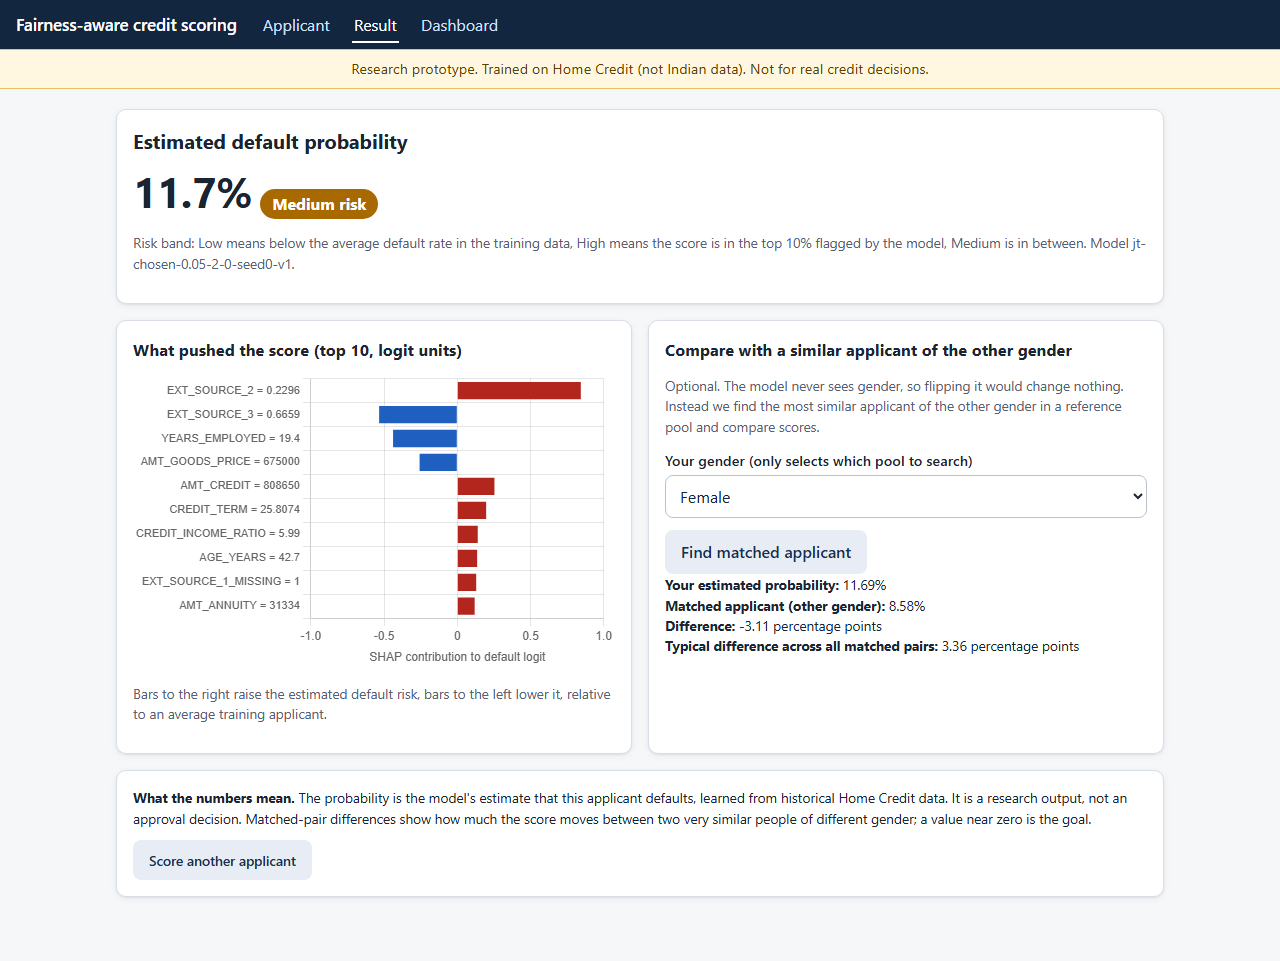
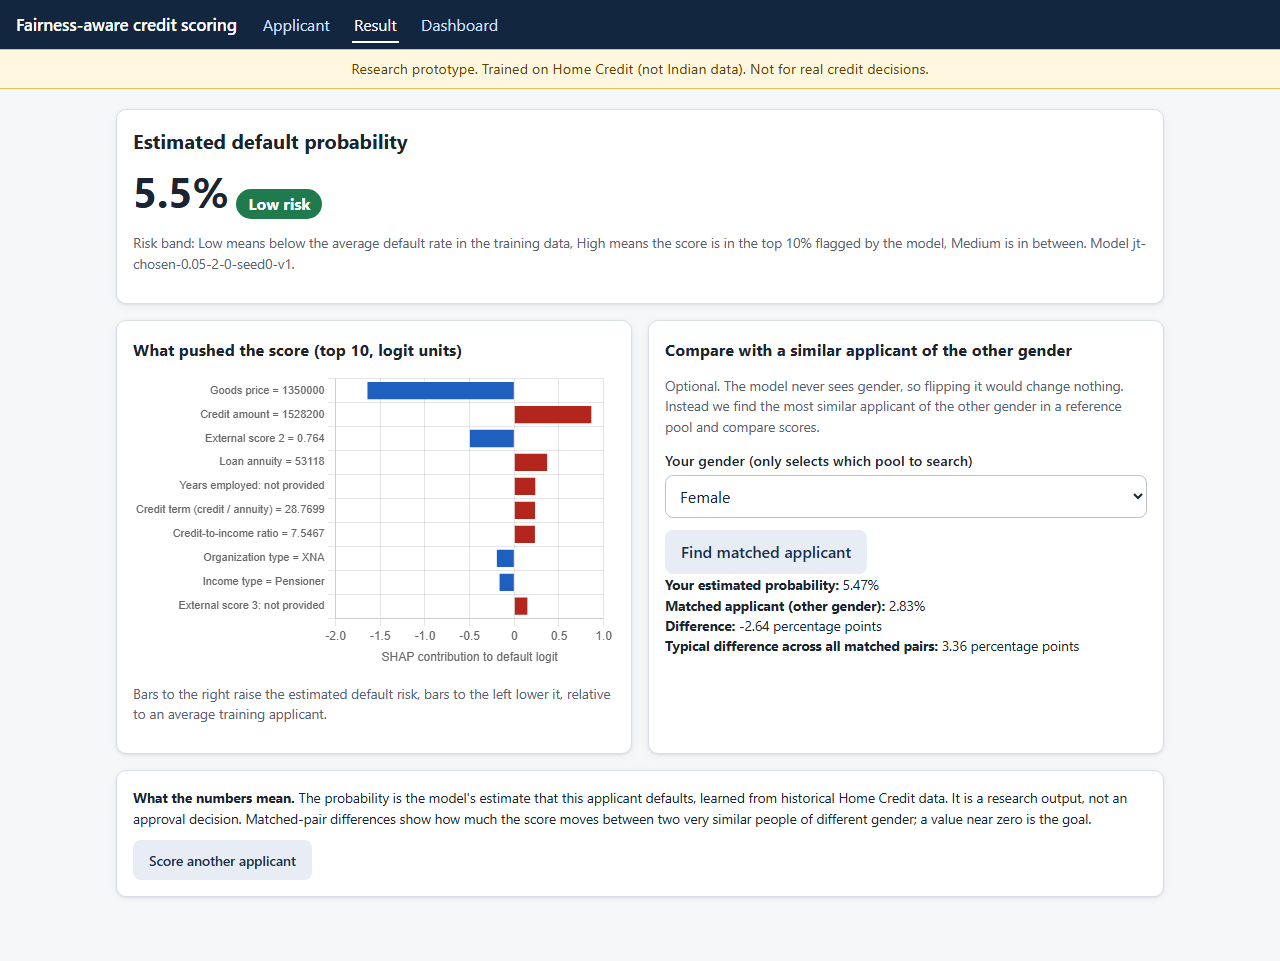
UI polish: open-range labels, friendly SHAP labels with merged missing scores, key-methods table with compact CIs, fresh screenshots

diff --git a/web/js/dashboard.js b/web/js/dashboard.js
@@ -32,20 +32,56 @@
     line(t, p.note);
   }
 
-  function comparison(c) {
-    const tb = document.getElementById("cmp"); tb.replaceChildren();
-    const head = ["Method", "Use", "AUC-ROC", "AUC-PR", "Worst-group ECE", "EOD", "DIR", "Recall"];
+  const CI_KEYS = ["auc_roc", "auc_pr", "worst_group_ece", "eod"];
+  const MAIN_ORDER = ["S2-EG", "REF-EG", "A2"];
+
+  function metricCell(r, k) {
+    const td = document.createElement("td");
+    td.className = "num";
+    const lo = r[k + "_lo"], hi = r[k + "_hi"];
+    if (typeof lo === "number" && typeof hi === "number") {
+      td.textContent = f4(r[k]) + " \u00b1 " + f4((hi - lo) / 2);
+      td.title = "95% interval " + f4(lo) + " to " + f4(hi);
+    } else td.textContent = f4(r[k]);
+    return td;
+  }
+
+  function fillTable(tb, rows, served) {
+    tb.replaceChildren();
     const tr0 = document.createElement("tr");
-    head.forEach((h, i) => { const th = document.createElement("th"); th.textContent = h; if (i > 1) th.className = "num"; tr0.appendChild(th); });
+    ["Method", "Use", "AUC-ROC", "AUC-PR", "Worst-group ECE", "EOD", "DIR", "Recall"].forEach((h, i) => {
+      const th = document.createElement("th"); th.textContent = h; if (i > 1) th.className = "num"; tr0.appendChild(th);
+    });
     tb.appendChild(tr0);
-    const ci = (r, k, d) => f4(r[k]) + (r[k + "_lo"] !== undefined && r[k + "_lo"] !== null ? " [" + f4(r[k + "_lo"]) + ", " + f4(r[k + "_hi"]) + "]" : "");
-    c.rows.forEach((r) => {
+    rows.forEach((r) => {
       const tr = document.createElement("tr");
-      const cells = [r.arm, r.deployable ? "deployable" : "analysis only", ci(r, "auc_roc"), ci(r, "auc_pr"), ci(r, "worst_group_ece"), ci(r, "eod"), f4(r.dir), f4(r.recall)];
-      cells.forEach((v, i) => { const td = document.createElement("td"); td.textContent = v; if (i > 1) td.className = "num"; if (i === 1) td.className = r.deployable ? "dep-yes" : "dep-no"; tr.appendChild(td); });
+      if (r.arm === served) tr.className = "served";
+      const name = document.createElement("td");
+      name.textContent = r.arm + (r.arm === served ? " (served)" : "");
+      const use = document.createElement("td");
+      use.textContent = (r.deployable ? "deployable" : "analysis only") + (r.posthoc ? ", post-hoc" : "");
+      use.className = r.deployable ? "dep-yes" : "dep-no";
+      tr.append(name, use);
+      CI_KEYS.forEach((k) => tr.appendChild(metricCell(r, k)));
+      ["dir", "recall"].forEach((k) => tr.appendChild(metricCell(r, k)));
       tb.appendChild(tr);
     });
+  }
+
+  function comparison(c, extra) {
+    const all = c.rows.concat(extra);
+    const main = [c.served_arm, ...MAIN_ORDER].map((a) => all.find((r) => r.arm === a)).filter(Boolean);
+    fillTable(document.getElementById("cmp_main"), main, c.served_arm);
+    fillTable(document.getElementById("cmp"), all, c.served_arm);
     document.getElementById("honest").textContent = c.headline;
+  }
+
+  async function posthocRows() {
+    // Separate labelled file: the frozen bundle's comparison stays unchanged. The page still works without it.
+    try {
+      const res = await fetch("data/posthoc_arms.json");
+      return res.ok ? (await res.json()).rows : [];
+    } catch (e) { return []; }
   }
 
   let trade = null, chart = null;
@@ -69,9 +105,9 @@
   async function init() {
     showStatus(statusEl, "info", "Loading dashboard data...");
     try {
-      const [f, c, p, cmp, tr] = await Promise.all([API.get("/fairness"), API.get("/calibration"), API.get("/proxy-audit"), API.get("/comparison"), API.get("/tradeoff")]);
+      const [f, c, p, cmp, tr, extra] = await Promise.all([API.get("/fairness"), API.get("/calibration"), API.get("/proxy-audit"), API.get("/comparison"), API.get("/tradeoff"), posthocRows()]);
       showStatus(statusEl, "", "");
-      trade = tr; fairness(f); calibration(c); proxy(p); comparison(cmp);
+      trade = tr; fairness(f); calibration(c); proxy(p); comparison(cmp, extra);
       ["lf", "lc", "la"].forEach((id) => document.getElementById(id).addEventListener("input", slide));
       slide();
     } catch (e) {

diff --git a/web/dashboard.html b/web/dashboard.html
@@ -34,9 +34,13 @@
         <div class="slider-row"><label for="la">lambda_a</label><input type="range" id="la" min="0" max="1" step="0.05" value="0"><output id="lav">0</output></div>
         <div id="near" class="small" aria-live="polite"></div></div>
         <div class="chart-box"><canvas id="trade" role="img" aria-label="Trade-off chart"></canvas></div></div></section>
-    <section class="card"><h2>All methods compared (test set, 95% CI)</h2>
-      <p class="muted small">Deployable = can be used without the applicant's gender at scoring time. Analysis-only arms use gender and are shown for reference only.</p>
-      <div class="tablewrap"><table id="cmp"></table></div></section>
+    <section class="card"><h2>Key methods compared (test set, 95% CI)</h2>
+      <p class="muted small">The highlighted row is the served model. Values are mean over seeds; &plusmn; is half the width of the 95% interval, and bootstrap intervals are not always symmetric, so hover a value for the full interval. REF-EG was added after the original test run (post-hoc).</p>
+      <div class="tablewrap full"><table id="cmp_main"></table></div>
+      <details id="cmp_all"><summary>All methods compared (full table)</summary>
+        <p class="muted small">Deployable = can be used without the applicant's gender at scoring time. Analysis-only arms use gender and are shown for reference only.</p>
+        <div class="tablewrap full"><table id="cmp"></table></div>
+      </details></section>
   </main>
   <script src="js/api.js"></script>
   <script src="js/charts.js"></script>

diff --git a/web/js/labels.js b/web/js/labels.js
@@ -1,0 +1,26 @@
+"use strict";
+// Friendly names shared by the form and the SHAP chart. Ranges and options still come from /meta/options.
+const FieldLabels = (() => {
+  const form = {
+    age_years: "Age (years)", cnt_children: "Number of children", cnt_fam_members: "Family members",
+    amt_income_total: "Total income", amt_credit: "Credit amount", amt_annuity: "Loan annuity",
+    amt_goods_price: "Goods price", region_population_relative: "Region population (relative)",
+    years_employed: "Years employed", name_family_status: "Family status", name_education_type: "Education",
+    name_income_type: "Income type", name_housing_type: "Housing type", occupation_type: "Occupation",
+    organization_type: "Organization type", flag_own_car: "Owns a car", flag_own_realty: "Owns real estate",
+    ext_source_1: "External score 1", ext_source_2: "External score 2", ext_source_3: "External score 3",
+  };
+  const derived = {
+    CREDIT_INCOME_RATIO: "Credit-to-income ratio", ANNUITY_INCOME_RATIO: "Annuity-to-income ratio",
+    CREDIT_TERM: "Credit term (credit / annuity)",
+  };
+  const feature = (raw) => derived[raw] || form[raw.toLowerCase()] || raw;
+  function shapLabel(item) {
+    const name = feature(item.feature);
+    if (item.missing) return name + ": not provided";
+    if (item.value === null || item.value === undefined) return name;
+    if (item.feature.startsWith("FLAG_")) return name + " = " + (Number(item.value) === 1 ? "Yes" : "No");
+    return name + " = " + item.value;
+  }
+  return { form, feature, shapLabel };
+})();

diff --git a/web/js/form.js b/web/js/form.js
@@ -6,15 +6,7 @@
   const form = document.getElementById("applicant");
   let meta = null;
 
-  const LABELS = {
-    age_years: "Age (years)", cnt_children: "Number of children", cnt_fam_members: "Family members",
-    amt_income_total: "Total income", amt_credit: "Credit amount", amt_annuity: "Loan annuity",
-    amt_goods_price: "Goods price", region_population_relative: "Region population (relative)",
-    years_employed: "Years employed", name_family_status: "Family status", name_education_type: "Education",
-    name_income_type: "Income type", name_housing_type: "Housing type", occupation_type: "Occupation",
-    organization_type: "Organization type", flag_own_car: "Owns a car", flag_own_realty: "Owns real estate",
-    ext_source_1: "External score 1", ext_source_2: "External score 2", ext_source_3: "External score 3",
-  };
+  const LABELS = FieldLabels.form;
 
   function el(tag, attrs, children) {
     const e = document.createElement(tag);
@@ -33,7 +25,7 @@
   function build() {
     fieldsEl.replaceChildren();
     Object.entries(meta.numeric).forEach(([name, r]) => {
-      const rng = (r.min !== null ? r.min : "") + " to " + (r.max !== null ? r.max : "");
+      const rng = r.max !== null ? (r.min !== null ? r.min : "") + " to " + r.max : "min " + r.min;
       const inp = el("input", { id: name, name, type: "number", inputmode: "decimal", step: r.integer ? "1" : "any", autocomplete: "off" });
       if (r.min !== null) inp.min = r.min;
       if (r.max !== null) inp.max = r.max;

diff --git a/web/js/charts.js b/web/js/charts.js
@@ -9,11 +9,11 @@ const Charts = (() => {
     canvas.replaceWith(p);
   }
   function shapBars(canvas, items) {
-    if (!ready()) return placeholder(canvas, "Chart library unavailable (offline): " + items.map((i) => i.feature + " " + i.shap.toFixed(3)).join("; "));
+    if (!ready()) return placeholder(canvas, "Chart library unavailable (offline): " + items.map((i) => FieldLabels.shapLabel(i) + " " + i.shap.toFixed(3)).join("; "));
     const top = items.slice(0, 10);
     return new Chart(canvas, {
       type: "bar",
-      data: { labels: top.map((i) => i.feature + (i.value === null ? "" : " = " + i.value)),
+      data: { labels: top.map((i) => FieldLabels.shapLabel(i)),
               datasets: [{ data: top.map((i) => i.shap), backgroundColor: top.map((i) => (i.shap >= 0 ? colors.pos : colors.neg)) }] },
       options: { indexAxis: "y", maintainAspectRatio: false, plugins: { legend: { display: false } },
                  scales: { x: { title: { display: true, text: "SHAP contribution to default logit" } }, y: { ticks: { font: { size: 11 } } } } },

diff --git a/web/css/style.css b/web/css/style.css
@@ -43,6 +43,12 @@ th, td { text-align: left; padding: 6px 8px; border-bottom: 1px solid var(--line
 th { background: #eef1f6; position: sticky; top: 0; }
 td.num, th.num { text-align: right; font-variant-numeric: tabular-nums; }
 .tablewrap { overflow-x: auto; max-height: 520px; }
+.tablewrap.full { max-height: none; }
+tr.served td { background: #e8f0fe; font-weight: 600; }
+tr.served td:first-child { box-shadow: inset 3px 0 0 #1f5fbf; }
+td[title] { cursor: help; }
+details#cmp_all { margin-top: 12px; }
+details#cmp_all summary { cursor: pointer; font-weight: 600; padding: 6px 0; }
 .muted { color: var(--muted); } .small { font-size: .85rem; }
 .chart-box { position: relative; height: 300px; }
 .slider-row { display: grid; grid-template-columns: 90px 1fr 60px; gap: 8px; align-items: center; margin: 6px 0; }

diff --git a/web/js/result.js b/web/js/result.js
@@ -14,7 +14,7 @@
     "Risk band: Low means below the average default rate in the training data, High means the score is in the top 10% flagged by the model, Medium is in between. Model " + p.model_version + ".";
   const ul = document.getElementById("warnings");
   (p.warnings || []).forEach((w) => { const li = document.createElement("li"); li.textContent = w; ul.appendChild(li); });
-  Charts.shapBars(document.getElementById("shap"), saved.explain.contributions);
+  Charts.shapBars(document.getElementById("shap"), saved.explain.display || saved.explain.contributions);
 
   const out = document.getElementById("matched");
   function row(label, value) {

diff --git a/web/result.html b/web/result.html
@@ -51,6 +51,7 @@
     </div>
   </main>
   <script src="js/api.js"></script>
+  <script src="js/labels.js"></script>
   <script src="js/charts.js"></script>
   <script src="js/result.js"></script>
 </body>

diff --git a/web/index.html b/web/index.html
@@ -30,6 +30,7 @@
     </form>
   </main>
   <script src="js/api.js"></script>
+  <script src="js/labels.js"></script>
   <script src="js/form.js"></script>
 </body>
 </html>

diff --git a/scripts/ui_screenshots.py b/scripts/ui_screenshots.py
@@ -55,7 +55,7 @@ class CDP:
 
     def shot(self, name: str, full: bool = True) -> str:
         h = self.js("Math.max(document.body.scrollHeight, 900)") if full else 900
-        self.call("Emulation.setDeviceMetricsOverride", width=1280, height=int(min(h, 3200)), deviceScaleFactor=1, mobile=False)
+        self.call("Emulation.setDeviceMetricsOverride", width=1280, height=int(min(h, 6000)), deviceScaleFactor=1, mobile=False)
         time.sleep(0.8)
         data = self.call("Page.captureScreenshot", format="png")["data"]
         p = OUT / name
@@ -98,6 +98,8 @@ def main() -> int:
         c.js("document.getElementById('example').click()")
         time.sleep(1.5)
         report["steps"]["example_loaded"] = bool(c.js("document.getElementById('age_years').value !== ''"))
+        report["steps"]["open_range_labels_ok"] = bool(c.js("!document.getElementById('fields').textContent.includes(' to )') && document.getElementById('fields').textContent.includes('min 0')"))
+        c.js("document.getElementById('ext_source_3').value = ''")  # exercise the merged "not provided" SHAP label
         report["steps"]["screenshot_form"] = c.shot("01_form.png")
         # ---- submit -> result page ----
         c.js("document.getElementById('submit').click()")
@@ -106,6 +108,11 @@ def main() -> int:
         report["steps"]["probability_text"] = c.js("document.getElementById('prob').textContent")
         report["steps"]["band_text"] = c.js("document.getElementById('band').textContent")
         report["steps"]["shap_chart_drawn"] = bool(c.js("typeof Chart !== 'undefined' && !!Chart.getChart('shap')"))
+        labels = c.js("Chart.getChart('shap').data.labels") or []
+        report["steps"]["shap_labels"] = labels
+        report["steps"]["shap_labels_friendly"] = bool(labels) and not any("_" in str(x).split(" = ")[0] for x in labels)
+        full = c.js("JSON.parse(sessionStorage.getItem('lastResult')).explain.display.filter(x => x.feature === 'EXT_SOURCE_3').map(x => FieldLabels.shapLabel(x))[0]")
+        report["steps"]["missing_score_label"] = full
         c.js("document.getElementById('gender').value = 'F'; document.getElementById('match').click()")
         report["steps"]["matched_panel"] = c.wait("document.getElementById('matched').textContent.includes('Difference')", 40)
         report["steps"]["screenshot_result"] = c.shot("02_result.png")
@@ -118,6 +125,13 @@ def main() -> int:
         time.sleep(1.5)
         report["steps"]["slider_nearest"] = c.js("document.getElementById('near').textContent.slice(0,120)")
         report["steps"]["honest_banner"] = c.js("document.getElementById('honest').textContent")
+        report["steps"]["main_table_rows"] = c.js("[...document.querySelectorAll('#cmp_main tr')].slice(1).map(r => r.cells[0].textContent)")
+        report["steps"]["served_highlighted"] = c.js("document.querySelector('#cmp_main tr.served').cells[0].textContent")
+        report["steps"]["ci_hover_sample"] = c.js("document.querySelector('#cmp_main tr.served td[title]').title")
+        report["steps"]["cell_sample"] = c.js("document.querySelector('#cmp_main tr.served td[title]').textContent")
+        c.js("document.getElementById('cmp_all').open = true")
+        report["steps"]["full_table_rows"] = c.js("document.querySelectorAll('#cmp tr').length - 1")
+        report["steps"]["no_row_cut_off"] = bool(c.js("[...document.querySelectorAll('.tablewrap.full')].every(w => w.scrollHeight <= w.clientHeight + 1)"))
         report["steps"]["disclaimer_on_all_pages"] = True
         report["steps"]["screenshot_dashboard"] = c.shot("03_dashboard.png")
         for page in ("index.html", "result.html", "dashboard.html"):

diff --git a/tests/test_api.py b/tests/test_api.py
@@ -401,3 +401,39 @@ def test_no_database_dependency_in_api():
     src = "\n".join(p.read_text(encoding="utf-8") for p in (ROOT / "api").glob("*.py"))
     for banned in ("sqlalchemy", "sqlite3", "pymysql", "psycopg", "mysql", "pymongo", "peewee"):
         assert banned not in src.lower()
+
+
+def test_explain_display_merges_missing_flags_and_keeps_contributions(client, example):
+    rec = dict(example, ext_source_3=None)
+    j = client.post("/explain", json=rec).json()
+    assert len(j["display"]) == j["top_k"] and all(not c["feature"].endswith("_MISSING") for c in j["display"])
+    assert all(set(c) == {"feature", "value", "shap"} for c in j["contributions"])  # contract unchanged
+    mags = [abs(c["shap"]) for c in j["display"]]
+    assert mags == sorted(mags, reverse=True)
+
+
+def test_merge_missing_is_additive_and_marks_missing():
+    from api.explain import merge_missing
+
+    items = [
+        {"feature": "EXT_SOURCE_3", "value": 0.5, "shap": 0.2},
+        {"feature": "EXT_SOURCE_3_MISSING", "value": 1, "shap": -0.5},
+        {"feature": "EXT_SOURCE_1", "value": 0.4, "shap": 0.1},
+        {"feature": "EXT_SOURCE_1_MISSING", "value": 0, "shap": 0.05},
+        {"feature": "AMT_CREDIT", "value": 9, "shap": 0.01},
+    ]
+    out = {t["feature"]: t for t in merge_missing(items)}
+    assert set(out) == {"EXT_SOURCE_3", "EXT_SOURCE_1", "AMT_CREDIT"}
+    assert out["EXT_SOURCE_3"]["missing"] and out["EXT_SOURCE_3"]["value"] is None
+    assert abs(out["EXT_SOURCE_3"]["shap"] + 0.3) < 1e-9
+    assert not out["EXT_SOURCE_1"]["missing"] and out["EXT_SOURCE_1"]["value"] == 0.4
+    assert abs(sum(t["shap"] for t in out.values()) - sum(t["shap"] for t in items)) < 1e-9
+
+
+def test_posthoc_rows_stay_outside_the_frozen_comparison(client):
+    assert "REF-EG" not in [r["arm"] for r in client.get("/comparison").json()["rows"]]
+    import json as _json
+    from pathlib import Path as _P
+
+    data = _json.loads((_P(__file__).resolve().parents[1] / "web/data/posthoc_arms.json").read_text(encoding="utf-8"))
+    assert data["rows"][0]["arm"] == "REF-EG" and data["rows"][0]["posthoc"] is True

diff --git a/api/explain.py b/api/explain.py
@@ -38,6 +38,27 @@ def _display(v):
     return str(v)
 
 
+MISSING_FLAGS = {
+    "EMPLOYED_MISSING": "YEARS_EMPLOYED",
+    "EXT_SOURCE_1_MISSING": "EXT_SOURCE_1",
+    "EXT_SOURCE_2_MISSING": "EXT_SOURCE_2",
+    "EXT_SOURCE_3_MISSING": "EXT_SOURCE_3",
+}
+
+
+def merge_missing(items: list[dict]) -> list[dict]:
+    """One entry per input: a missing-flag's SHAP is added to its feature (SHAP is additive), sorted."""
+    by = {t["feature"]: dict(t, missing=False) for t in items if t["feature"] not in MISSING_FLAGS}
+    for t in items:
+        base = MISSING_FLAGS.get(t["feature"])
+        if base in by:
+            by[base]["shap"] += t["shap"]
+            by[base]["missing"] = t["value"] == 1
+            if by[base]["missing"]:
+                by[base]["value"] = None
+    return sorted(by.values(), key=lambda t: -abs(t["shap"]))
+
+
 def explain(b: Bundle, rec: ApplicantRecord, top_k: int = 10, nsamples: int = 100) -> dict:
     import shap
 
@@ -66,12 +87,14 @@ def explain(b: Bundle, rec: ApplicantRecord, top_k: int = 10, nsamples: int = 10
         {"feature": n, "value": _display(derived[n]), "shap": float(vec[i])}
         for i, n in enumerate(names)
     ]
+    display = merge_missing(items)[:top_k]
     items.sort(key=lambda t: -abs(t["shap"]))
     with torch.no_grad():
         base = float(f(bc, be).mean())
     return {
         "base_value": base,
         "contributions": items[:top_k],
+        "display": display,
         "top_k": top_k,
         "model_version": b.version,
     }
